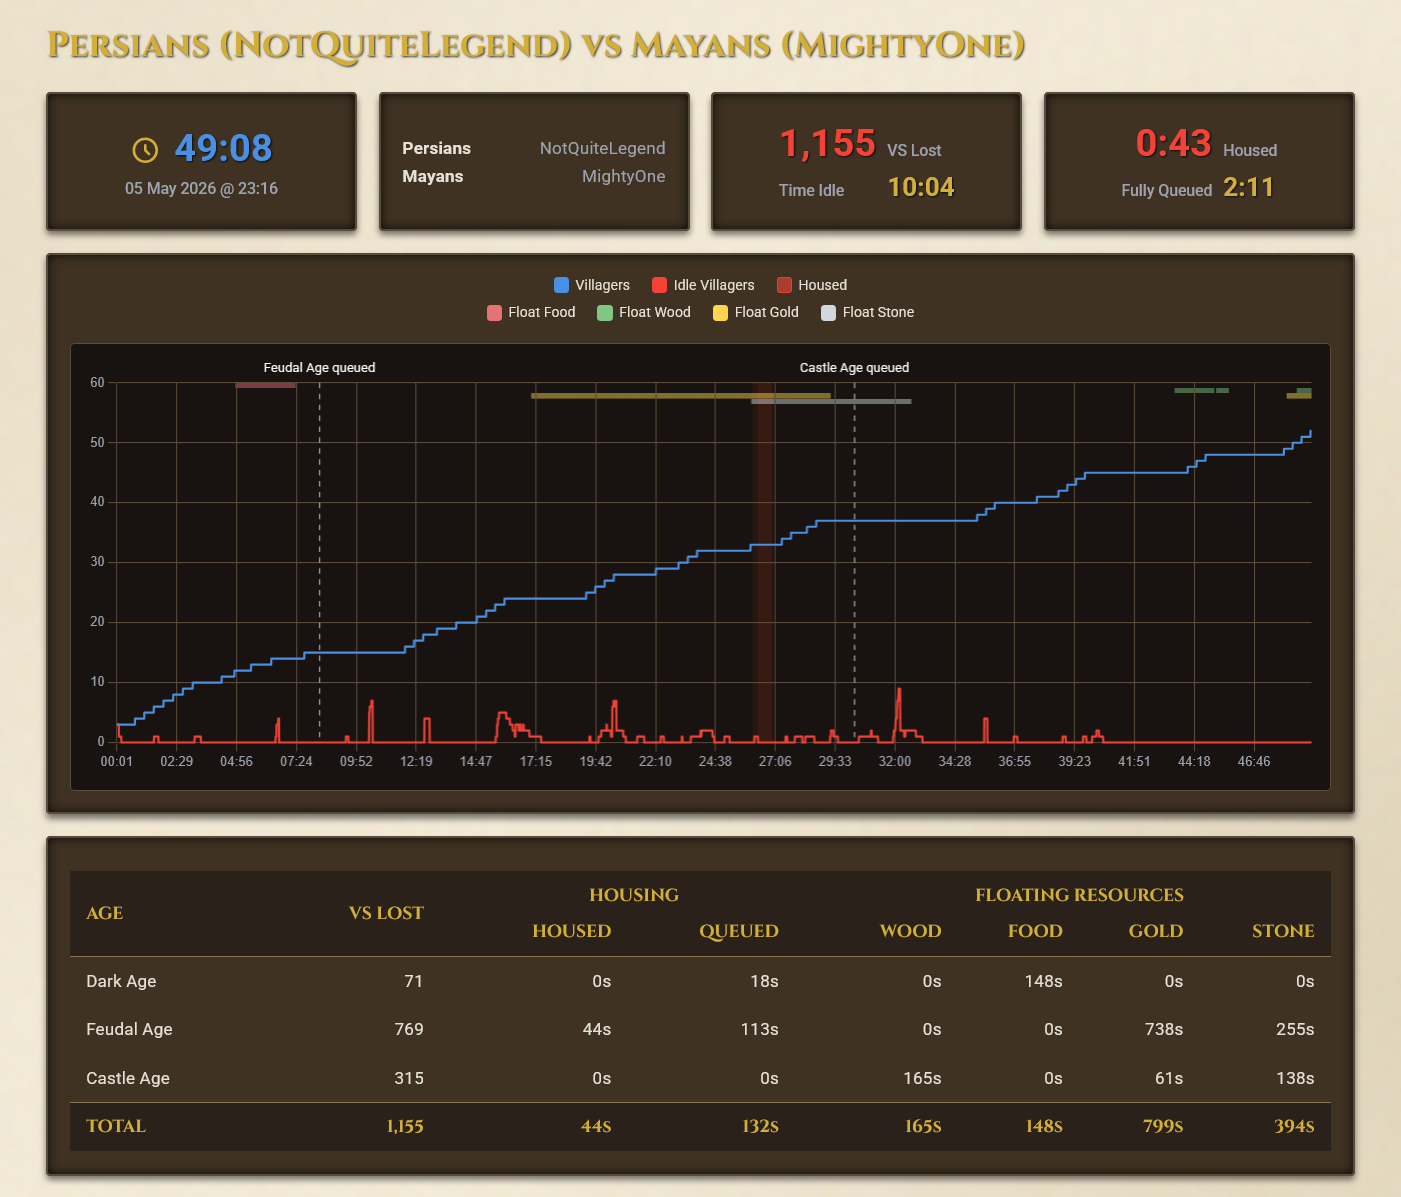
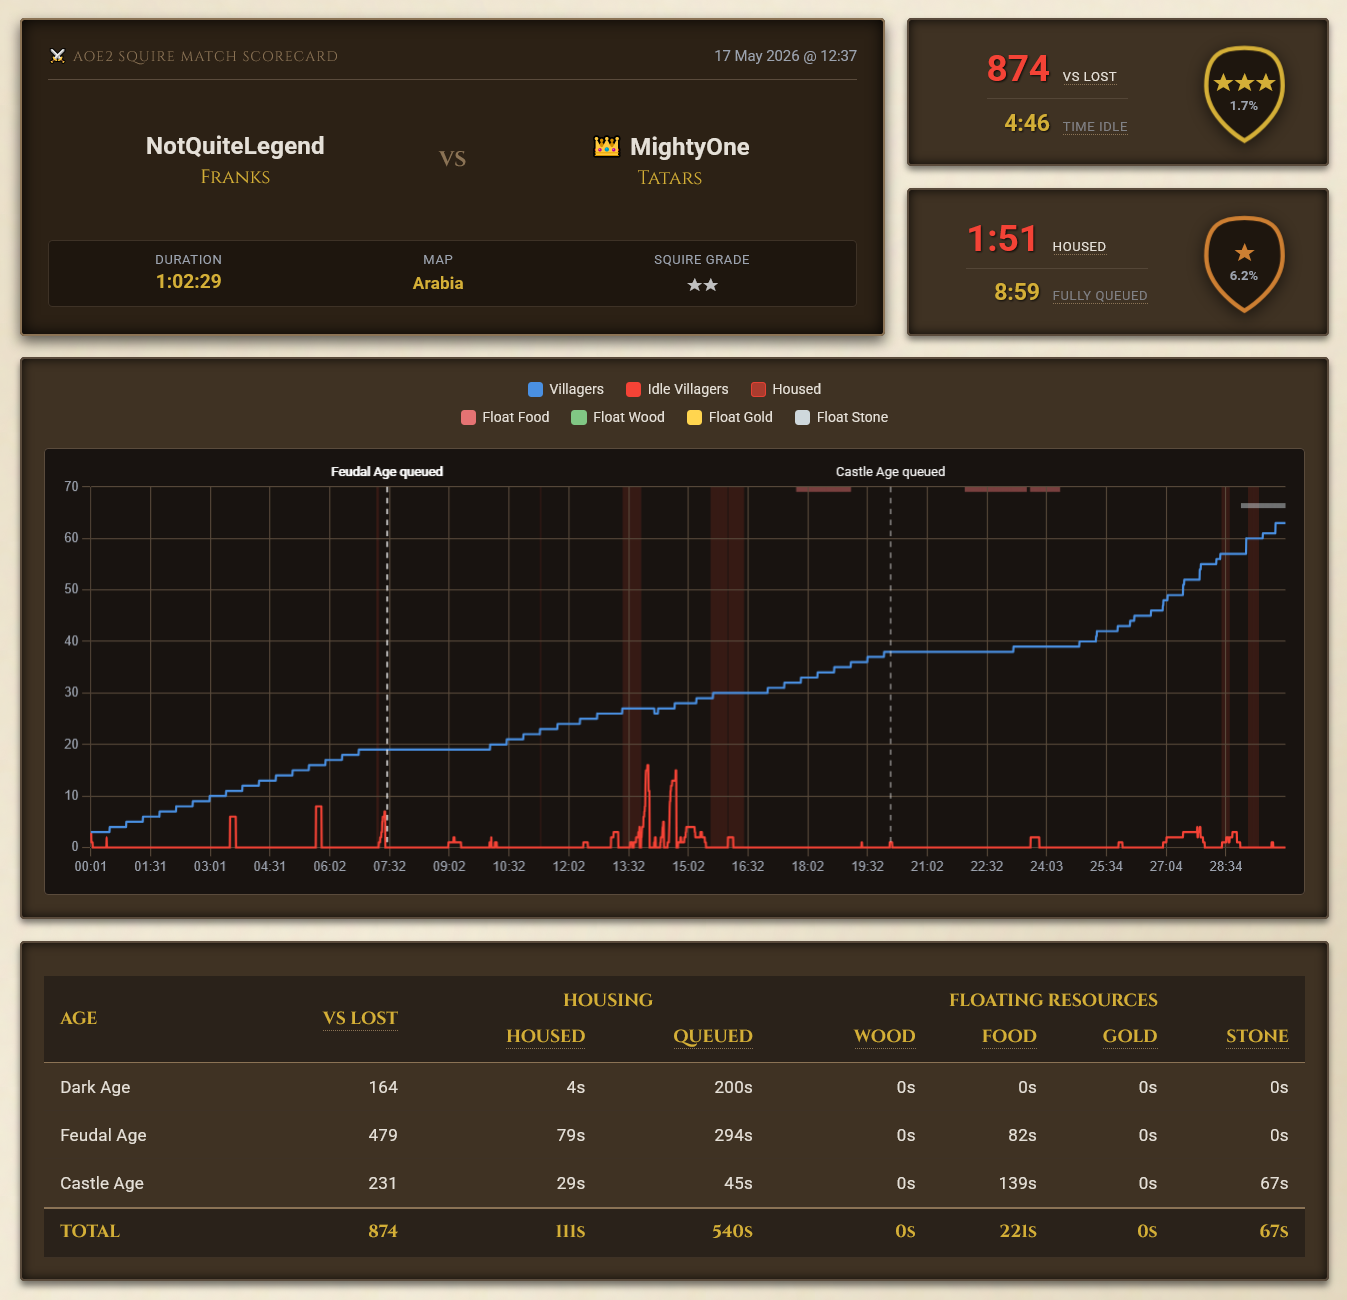
docs: updated readme to 0.1.2 UI and features

diff --git a/README.md b/README.md
@@ -8,20 +8,20 @@
 
 ---
 
-AoE2 Squire is a free, zero-install coaching tool for **Age of Empires II: Definitive Edition** that runs in the background while you play. When your match ends, your squire gets to work, analyzing your match and creating a report showing exactly where you can improve. No uploading files, no viewing replays, no configuration required.
+AoE2 Squire is a free, zero-install match analyzer for **Age of Empires II: Definitive Edition** that runs in the background while you play. When your match ends, your squire gets to work, creating a report showing exactly where you can improve. No uploading files, no viewing replays, no configuration required.
 
 <a href="assets/report-sample.png"><img src="assets/report-sample.png" alt="Sample Post-Game Report showing timeline and efficiency metrics" width="600"></a>
 
-The example chart shows how the player NotQuiteLegend is managing their idle villagers well (red line) but could improve their villager production (blue line). They got housed once around 27:00 (red overlay) and floated a lot of gold and stone during Feudal Age (gold and grey bars at the top).
+This report shows how the player NotQuiteLegend is managing their idle villagers well (★★★, red line in the chart) but got housed multiple times (★, red overlays) and didn't keep up consistent villager villager production (blue line). They floated a lot of food in late Feudal and early Castle Age (red bar at the top).
 
 ---
 
 ## What It Tracks
 
+  - **Idle Villagers:** Gather time lost due to idle villagers.
+  - **Housing Efficiency:** Time spent population-blocked or with units queued while close the housing limit.
   - **Villager Graph:** Your villager count over time, showing when you stopped producing or lost villagers.
-  - **Idle Villagers:** Total gather time lost due to idle villagers.
-  - **Housing Efficiency:** Time spent population-blocked or with units queued beyond available housing.
-  - **Floating Resources:** Periods where you stockpiled resources too long. Smart enough to ignore intentional saving up for aging up or castles.
+  - **Floating Resources:** Periods where you stockpiled resources too long. Ignores intentional saving up for aging up or castles.
 
 ---
 
@@ -56,7 +56,7 @@ After downloading AoE2 Squire, Windows SmartScreen might stop it from running be
 
 ### How to Use
 
-1. **Start the tool:** Run `aoe2-squire.exe` before you start your match, with or without the game already running
+1. **Start the Squire:** Run `aoe2-squire.exe` before you start your match, with or without the game already running
 2. **Play normally:** Your squire observes from the sidelines, taking notes of how the match unfolds
 3. **View your report:** When the match ends, your squire presents your post-match report in your browser and automatically waits for your next match
 
@@ -85,7 +85,7 @@ Yes. Everything is bundled inside the single `.exe`, no internet connection requ
 Any resolution of 1366×768 or higher, running on your primary monitor.
 
 **What if it can't find my replay file?**
-A window will appear asking you to locate the file manually.
+A window will appear asking you to select the file manually. If you don't select a replay file, the Squire will generate a report using collected real-time data only.
 
 ---
 
